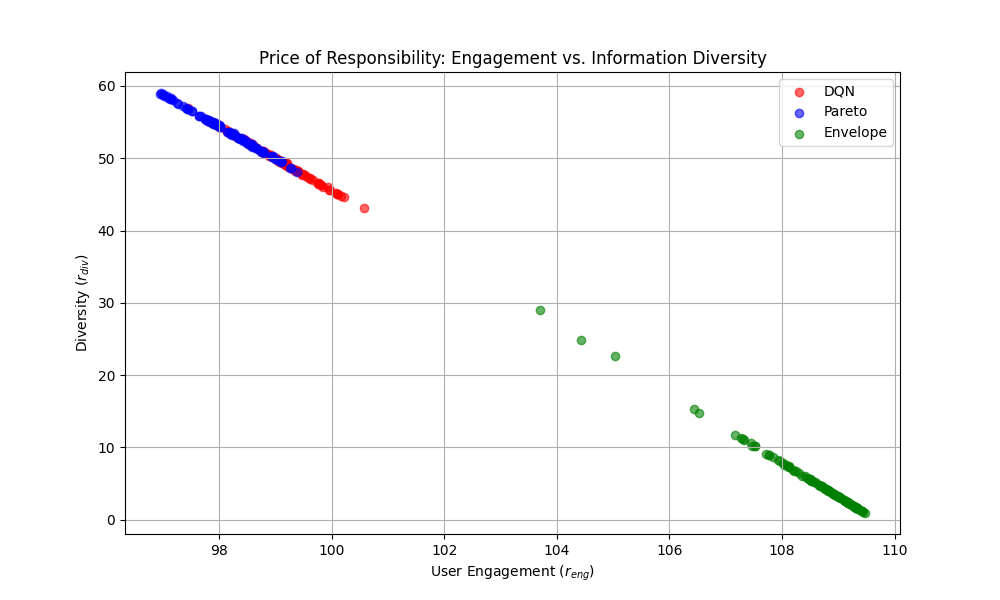
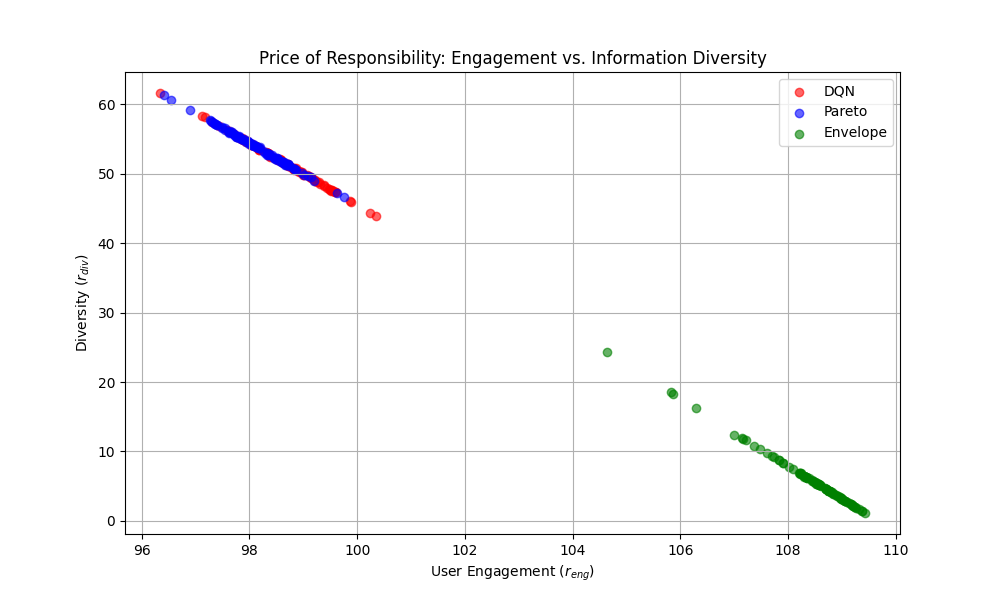
docs: update comparison plots and refine stochastic policy description in readme

diff --git a/readme.md b/readme.md
@@ -163,7 +163,7 @@ $$w^* = \arg\max_{w' \in \mathcal{W}} (w \cdot \mathbf{Q}(s', \pi(s', w'), w'))$
 * **$w^*$**: The preference that maximizes scalarized utility relative to the agent's current objective $w$.
 
 #### III. Stochastic Policy and Entropy Regularization
-To prevent policy collapse and maintain high semantic variance, the Actor implements a stochastic policy $\pi_\theta(a|s, w)$[cite: 12]. [cite_start]The Actor maximizes a combination of scalarized utility and policy entropy:
+To prevent policy collapse and maintain high semantic variance, the Actor implements a stochastic policy $\pi_\theta(a|s, w)$. The Actor maximizes a combination of scalarized utility and policy entropy:
 
 $$J(\theta) = \mathbb{E} [ w \cdot \mathbf{Q}(s, a, w) - \alpha \log \pi_\theta(a|s, w) ]$$.
 
